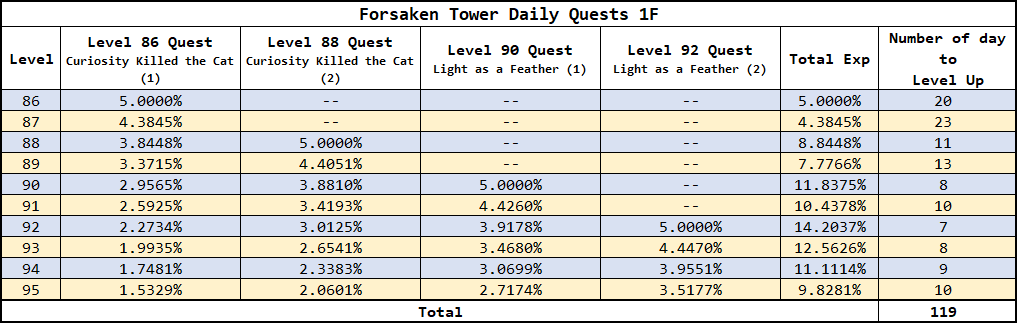
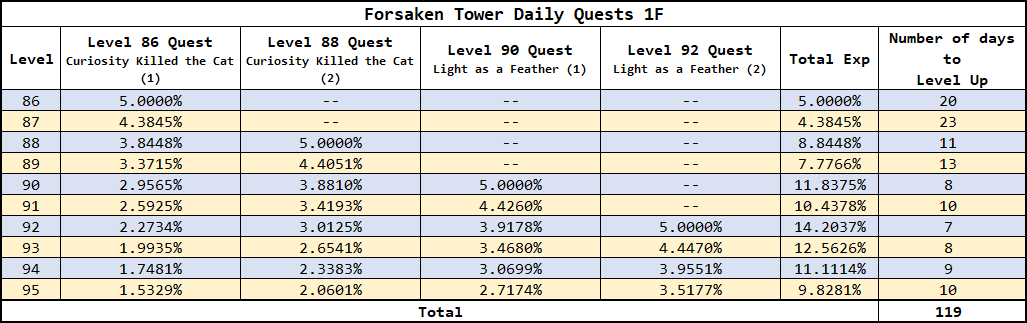
feat: update

diff --git a/README.md b/README.md
@@ -4,7 +4,7 @@
 > **Document about the game Flyff Universe. <ins>NOT affiliated with GalaLab / Wemade Connect / PlayPark.</ins>**
 
 > [!IMPORTANT]
-> **The information uses in the document is from the FlyFF Universe API and belong to Gala Lab Corp.**
+> **The information used in the document is from the FlyFF Universe API and belong to Gala Lab Corp.**
 
 > [!CAUTION]
 > **This repository was created to promote the game. If any inconvenience is caused, please contact me as soon as possible. Thanks you.** 🙏
@@ -24,6 +24,7 @@
     - [❤ provisional damage hp](#-provisional-damage-hp)
     - [💬 chatting filter](#-chatting-filter)
     - [👩🏻💻 commands](#-commands)
+    - [💫 transmute](#-transmute)
     - [🏰 guild name color](#-guild-name-color)
     - [🏰 guild level](#-guild-level)
     - [🤝 party](#-party)
@@ -33,9 +34,10 @@
       - [party exp](#party-exp)
       - [party skill](#party-skill)
     - [🌟 exp system](#-exp-system)
-    - [🎁 drop rate](#-drop-rate)
+    - [🥇 level gap](#-level-gap)
+      - [⚔damage ratio](#damage-ratio)
+      - [🎁 drop rate](#-drop-rate)
     - [📦 item rarity](#-item-rarity)
-    - [⚔ damage ratio](#-damage-ratio)
     - [💳 extended battle pass](#-extended-battle-pass)
     - [🛒 fitting room](#-fitting-room)
     - [👗 costume collection](#-costume-collection)
@@ -59,11 +61,12 @@
     - [🥺 pity system](#-pity-system)
     - [🏹 weapon\&armor upgrade](#-weaponarmor-upgrade)
       - [event](#event)
-      - [bonus](#bonus)
+      - [upgrade level bonus](#upgrade-level-bonus)
     - [🆄🅻🆃🅸🅼🅰🆃🅴 ultimate](#-ultimate)
       - [ultimate weapon](#ultimate-weapon)
       - [regular weapon](#regular-weapon)
       - [⚜ fwc golden weapon](#-fwc-golden-weapon)
+      - [reroll weapons](#reroll-weapons)
       - [ultimate jewelry](#ultimate-jewelry)
     - [🦾 new horizon equipment sets](#-new-horizon-equipment-sets)
     - [💍 jewelry upgrade](#-jewelry-upgrade)
@@ -78,7 +81,7 @@
     - [🛠 craft](#-craft)
     - [📜 stat scroll](#-stat-scroll)
     - [📜 awake](#-awake)
-    - [💍 FWC jewelry](#-fwc-jewelry)
+    - [💍 FWC 2023 Jewelry](#-fwc-2023-jewelry)
   - [🐶 pet](#-pet)
     - [🦮 raised pet](#-raised-pet)
     - [🕊 grace effect](#-grace-effect)
@@ -324,6 +327,18 @@
 
 </details></td></tr></table>
 
+### 💫 transmute
+
+<table><tr><td><details><summary>details</summary>
+
+<div align="center">
+
+**For more information please refer to [Gothante](https://gothante.com/?search=how+do+i+transmute+an+equipment).**
+
+</div>
+
+</details></td></tr></table>
+
 ### 🏰 guild name color
 
 <table><tr><td><details><summary>details</summary>
@@ -499,9 +514,21 @@
 
 </details></td></tr></table>
 
-### 🎁 drop rate
+### 🥇 level gap
 
 <table><tr><td><details><summary>details</summary>
+
+<div align="center"><img src="./system/level_gap.png" alt="level_gap.png"/></div>
+
+> source:[@navi2765 @Navi (discord flyff universe)](https://discord.com/channels/778915844070834186/1079288438056034314/1250528036374184078 "@navi2765 @Navi (discord flyff universe)")
+
+#### ⚔damage ratio
+
+<div align="center"><img src="./system/damage_ratio.jpg" alt="damage_ratio.jpg"/></div>
+
+> source:[@ppap#5954 @ppap (discord flyff universe)](https://discord.com/channels/778915844070834186/1000058902576119878/1079823818765385799 "@ppap#5954 @ppap (discord flyff universe)")
+
+#### 🎁 drop rate
 
 > source:[Developers Q&A December 2022 - January 2023](https://universe.flyff.com/news/qna-01-2023 "Developers Q&A December 2022 - January 2023")
 
@@ -561,16 +588,6 @@
 <table><tr><td><details><summary>details</summary>
 
 <div align="center"><img src="./system/item_rarity_color.png" alt="item_rarity_color.png"/></div>
-
-</details></td></tr></table>
-
-### ⚔ damage ratio
-
-<table><tr><td><details><summary>details</summary>
-
-<div align="center"><img src="./system/damage_ratio.jpg" alt="damage_ratio.jpg"/></div>
-
-> source:[@ppap#5954 @ppap (discord flyff universe)](https://discord.com/channels/778915844070834186/1000058902576119878/1079823818765385799 "@ppap#5954 @ppap (discord flyff universe)")
 
 </details></td></tr></table>
 
@@ -1367,6 +1384,12 @@ Those who have completed the Optional Master Quest during the event period will 
 
 <table><tr><td><details><summary>details</summary>
 
+<div align="center">
+
+**For more information please refer to [Gothante](https://gothante.com/?search=what+power+dice+and+upgrading+materials+do+i+need+for+which+upgrade).**
+
+</div>
+
 <div align="center"><img src="./upgrade/power_dices.png" alt="power_dices.png"/></div>
 
 <div align="center"><img src="./upgrade/power_dice.jpg" alt="power_dice.jpg" width="500"/></div>
@@ -1376,6 +1399,12 @@ Those who have completed the Optional Master Quest during the event period will 
 ### 🧤 catcher
 
 <table><tr><td><details><summary>details</summary>
+
+<div align="center">
+
+**For more information please refer to [Gothante](https://gothante.com/?search=the+catchers).**
+
+</div>
 
 <div align="center"><img src="./upgrade/catcher.jpg" alt="catcher.jpg" width="500"/></div>
 
@@ -1431,7 +1460,7 @@ Those who have completed the Optional Master Quest during the event period will 
 
 > source[@piccolo0002 @[GM] Piccolo (discord flyff universe)](https://discord.com/channels/778915844070834186/778927702874652682/1076113591536717834 "@piccolo0002 @[GM] Piccolo (discord flyff universe)")
 
-#### bonus
+#### upgrade level bonus
 
 <details><summary>details</summary>
 
@@ -1478,6 +1507,18 @@ Those who have completed the Optional Master Quest during the event period will 
 <details><summary>details</summary>
 
 <div align="center"><img src="./upgrade/ultimate/fwc_golden_ultimate_weapons.png" alt="ultimate_weapons.png"/></div>
+
+</details>
+
+#### reroll weapons
+
+<details><summary>details</summary>
+
+<div align="center">
+
+**For more information please refer to [Gothante](https://gothante.com/?search=how+to+reroll).**
+
+</div>
 
 </details>
 
@@ -1605,6 +1646,12 @@ Those who have completed the Optional Master Quest during the event period will 
 
 <table><tr><td><details><summary>details</summary>
 
+<div align="center">
+
+**For more information please refer to [Gothante](https://gothante.com/?search=crafting).**
+
+</div>
+
 <div align="center"><img src="./upgrade/create_unique_weapon.png" alt="create_unique_weapon.png"/></div>
 
 > source:[@frostiae @[Dev] Frostiae (discord flyff universe)](https://discord.com/channels/778915844070834186/1000058902576119878/1172180003119697970 "@frostiae @[Dev] Frostiae (discord flyff universe)")
@@ -1616,6 +1663,12 @@ Those who have completed the Optional Master Quest during the event period will 
 ### 📜 stat scroll
 
 <table><tr><td><details><summary>details</summary>
+
+<div align="center">
+
+**For more information please refer to [Gothante](https://gothante.com/?search=random+stats+%28stats+bonus%29).**
+
+</div>
 
 * Add a random `STR`/`STA`/`DEX`/`INT` stat to your weapon or armor.
 
@@ -1631,21 +1684,21 @@ Those who have completed the Optional Master Quest during the event period will 
 
 <table><tr><td><details><summary>details</summary>
 
-<div align="center"><img src="./upgrade/awake/awake1.png" alt="awake1.png"/></div>
+<div align="center">
 
-<div align="center"><img src="./upgrade/awake/awake2.png" alt="awake2.png"/></div>
+**For more information please refer to [Flyffipedia](https://flyffipedia.com/skillawakes).**
 
-<div align="center"><img src="./upgrade/awake/awake3.png" alt="awake3.png"/></div>
+</div>
 
 </details></td></tr></table>
 
-### 💍 FWC jewelry
+### 💍 FWC 2023 Jewelry
 
 <table><tr><td><details><summary>details</summary>
 
-<div align="center"><img src="./upgrade/fwc_jewelry.png" alt="fwc_jewelry.png"/></div>
+<div align="center"><img src="./upgrade/fwc2023_jewelry.png" alt="fwc_jewelry.png"/></div>
 
-> source:[FWC Event Details](https://universe.flyff.com/news/fwc1event "FWC Event Details")
+> source:[FWC 2023 Event Details](https://universe.flyff.com/news/fwc1event "FWC 2023 Event Details")
 
 </details></td></tr></table>
 
@@ -1923,6 +1976,10 @@ Those who have completed the Optional Master Quest during the event period will 
 <div align="center">
 
 **For more information please refer to [Gothante](https://gothante.com/?search=forsaken+tower).**
+
+**Only the experience necessary for a single level up is calculated, without accounting for cumulative experience.**
+
+**The actual number of days required to level up will be fewer than those indicated in the chart.**
 
 </div>
 
